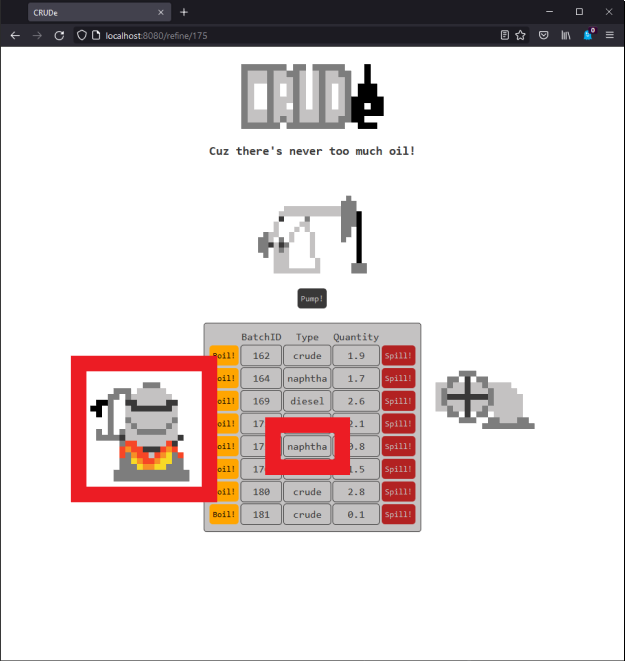
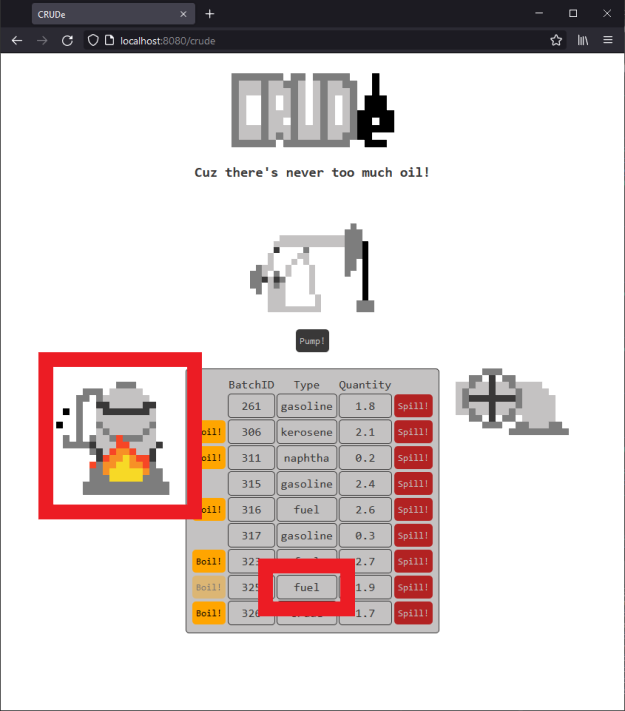
GIFs pass and readme update
replace infinity loop gifs with 24 frames ones. update the screenshots
and the description to better reflect the latest changes.

Changed region(s): [[0.0608, 0.3026, 0.912, 0.9077], [0.0, 0.0, 1.0, 0.2723], [0.304, 0.2421, 0.3344, 0.2723]]

diff --git a/src/main/resources/static/crudescript.js b/src/main/resources/static/crudescript.js
@@ -11,9 +11,7 @@ function homecall() {
 
 //sends a request to create an oil batch and receives the updated oil list
 function pumpcall() {
-	document.getElementById("pumpimage").src="/images/pumpanim.gif";
-	document.getElementById("spillimage").src="/images/spillstill.gif";
-	document.getElementById("boilimage").src="/images/boilstill.gif";	
+	document.getElementById("pumpimage").src="/images/pumpanim.gif";	
 	
 	let httpRequest = new XMLHttpRequest();
 	httpRequest.open("POST", 'http://localhost:8080/pumpy');
@@ -27,8 +25,6 @@ function pumpcall() {
 //sends a request to refine a specific oil batch and receives the updated oil list
 function boilcall(id) {
 	document.getElementById("boilimage").src="/images/boilanim.gif";
-	document.getElementById("spillimage").src="/images/spillstill.gif";
-	document.getElementById("pumpimage").src="/images/pumpstill.gif";
 	
 	let httpRequest = new XMLHttpRequest();
 	httpRequest.open("POST", 'http://localhost:8080/boily/' + id);
@@ -41,9 +37,7 @@ function boilcall(id) {
 
 //sends a request to delete a specific oil batch and receives the updated oil list
 function spillcall(id) {
-	document.getElementById("spillimage").src="/images/spillanim.gif";
-	document.getElementById("pumpimage").src="/images/pumpstill.gif";
-	document.getElementById("boilimage").src="/images/boilstill.gif";	
+	document.getElementById("spillimage").src="/images/spillanim.gif";	
 	
 	let httpRequest = new XMLHttpRequest();
 	httpRequest.open("POST", 'http://localhost:8080/spilly/' + id);
@@ -56,7 +50,7 @@ function spillcall(id) {
 
 //creates and updates the table with the received list
 function getTable(oillist) {	
-	let text = "<thead><tr><td></td><td>BatchID</td><td>Type</td><td>Quantity</td><td></td></tr></thead><tbody>";
+	let text = "<thead><tr><td></td><td>BatchID</td><td width='80px'>Type</td><td>Quantity</td><td></td></tr></thead><tbody>";
 	for (let oil in oillist) {
 		text += "<tr>";
 		if (oillist[oil].type !== "gasoline") {
@@ -64,7 +58,7 @@ function getTable(oillist) {
 		} else {
 			text += "<td></td>";
 		}
-		text += "<td>" + oillist[oil].batchId + "</td><td>" + oillist[oil].type + "</td><td>" + oillist[oil].quantity + "</td>";
+		text += "<td id='inborders'>" + oillist[oil].batchId + "</td><td id='inborders'>" + oillist[oil].type + "</td><td id='inborders'>" + oillist[oil].quantity + "</td>";
 		text += "<td><button id='spillbutton' onclick='spillcall(" + oillist[oil].batchId + ")'>Spill!</button></td></tr>";
 	}
 	text += "</tbody>";

diff --git a/src/main/resources/templates/CRUDeHomepage.html b/src/main/resources/templates/CRUDeHomepage.html
@@ -19,14 +19,14 @@
 			<br/><br/>
 			<table>
 				<tbody>
-					<tr>
+					<tr style="vertical-align:top">
 						<td>
 							<img id="boilimage" src="/images/boilstill.gif">
 						</td>
 						<td>
 							<table id="oiltable"></table>
 						</td>
-						<td>
+						<td class="imageattop">
 							<img id="spillimage" src="/images/spillstill.gif">
 						</td>
 					</tr>

diff --git a/src/main/java/com/kwan/CRUDe/CruDeController.java b/src/main/java/com/kwan/CRUDe/CruDeController.java
@@ -10,7 +10,7 @@ public class CruDeController {
 	//displays the home page when receiving a request
 	@RequestMapping("/crude")
 	public String homePage() {
-		return "Home";
+		return "CRUDeHomepage";
 	}
 	
 }

diff --git a/README.md b/README.md
@@ -5,7 +5,7 @@ There's never too much oil! Pump, refine and spill (and look at) all the oil! En
 
 ---------
 
-When you get to the home page by entering "localhost:8080/crude" in a browser, you'll see a table with all the previously created batches of delicious oil. You'll also see three types of buttons to interact with the oil database. Read further for a description of each button types. You can return to the home page at anytime by clicking the "CRUDe" logo at the top.
+When you get to the home page by entering "localhost:8080/crude" in a browser, you'll see a table with all the previously created batches of delicious oil. You'll also see three types of buttons to interact with the oil database. Read further for a description of each button types. You can refresh the home page at anytime by clicking the "CRUDe" logo at the top.
 
 ![HomePage Screenshot](src/main/resources/static/images/readmescreenshots/HomePageScreenshot.png)
 
@@ -13,7 +13,7 @@ Press the "Pump!" button to create a batch of crude oil. It will get its own Bat
 
 ![Pump Screenshot](src/main/resources/static/images/readmescreenshots/PumpScreenshot.png)
 
-Press the "Boil!" button next to a batch to refine that batch. It will raise the quality of the oil by one grade every time you press the button until it reaches the "gasoline" state. The grades from lowest to highest are: "crude", "fuel", "diesel", "kerosene", "naphtha" and "gasoline". You can see the type change inside the table. And watch the refiner boil that oil!
+Press the "Boil!" button next to a batch to refine that batch. It will raise the quality of the oil by one grade every time you press the button until it reaches the "gasoline" state. Then, the "Boil!" button will not be available anymore. The grades from lowest to highest are: "crude", "fuel", "diesel", "kerosene", "naphtha" and "gasoline". You can see the type change inside the table. And watch the refiner boil that oil!
 
 ![Boil Screenshot](src/main/resources/static/images/readmescreenshots/BoilScreenshot.png)
 
@@ -28,6 +28,7 @@ made using:
 java
 html
 css
+javascript
 
 eclipse
 mysql
